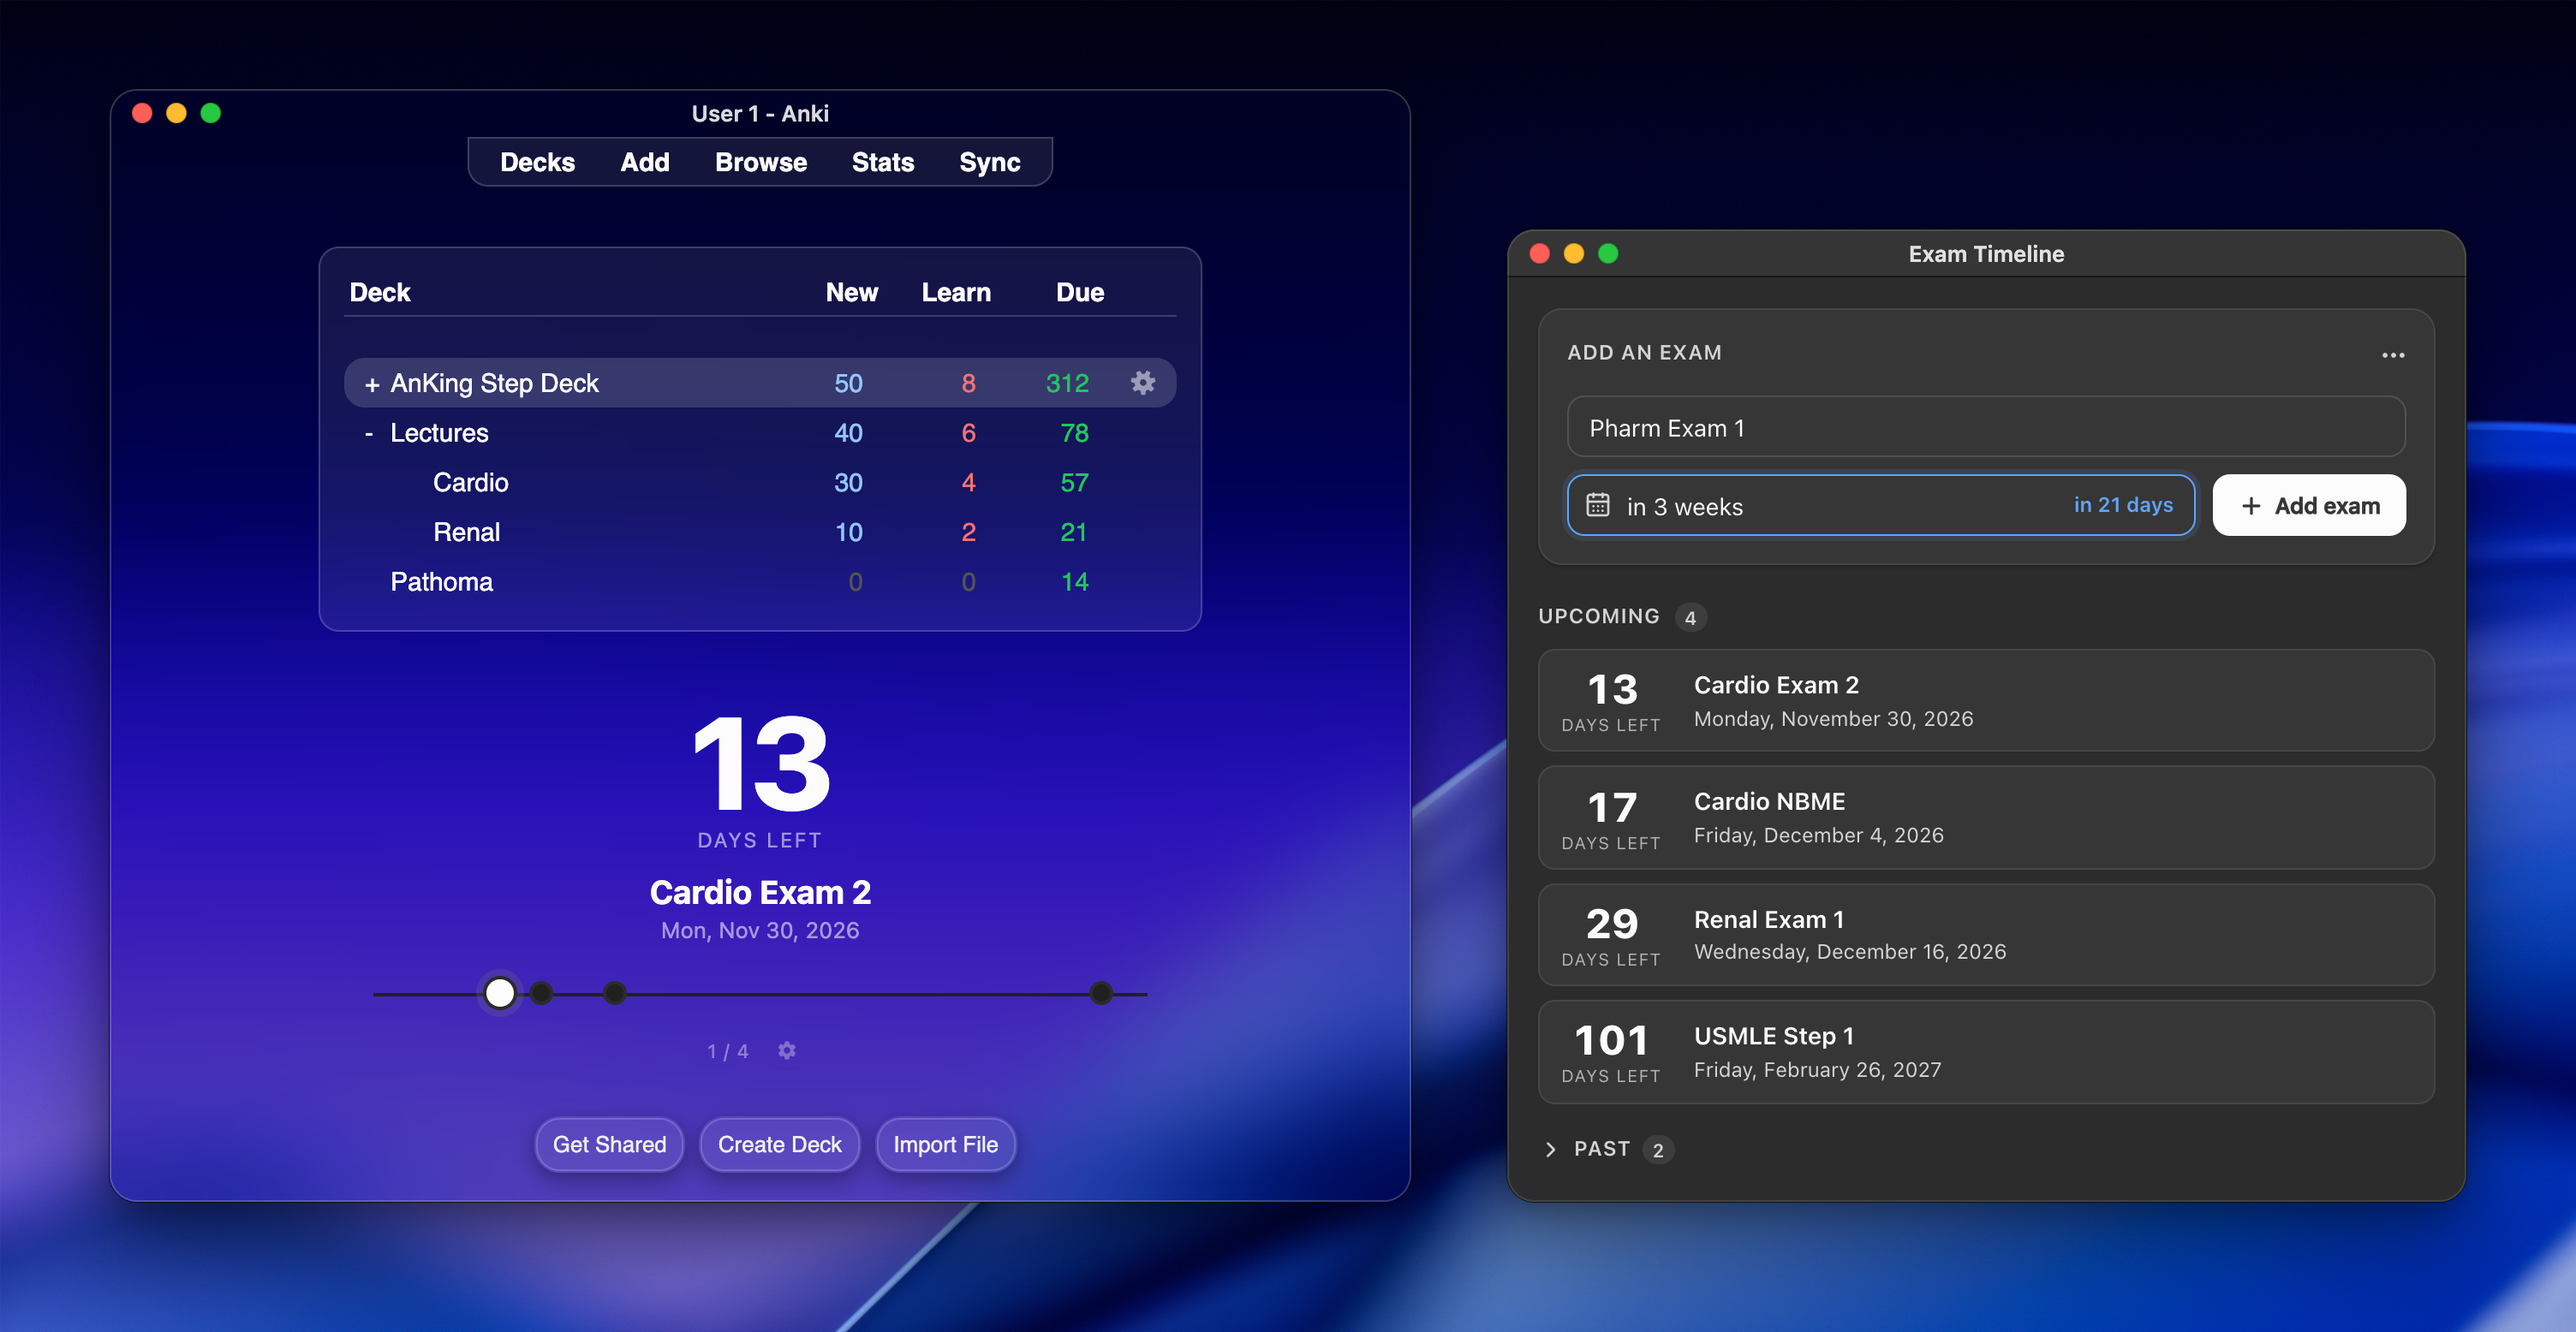
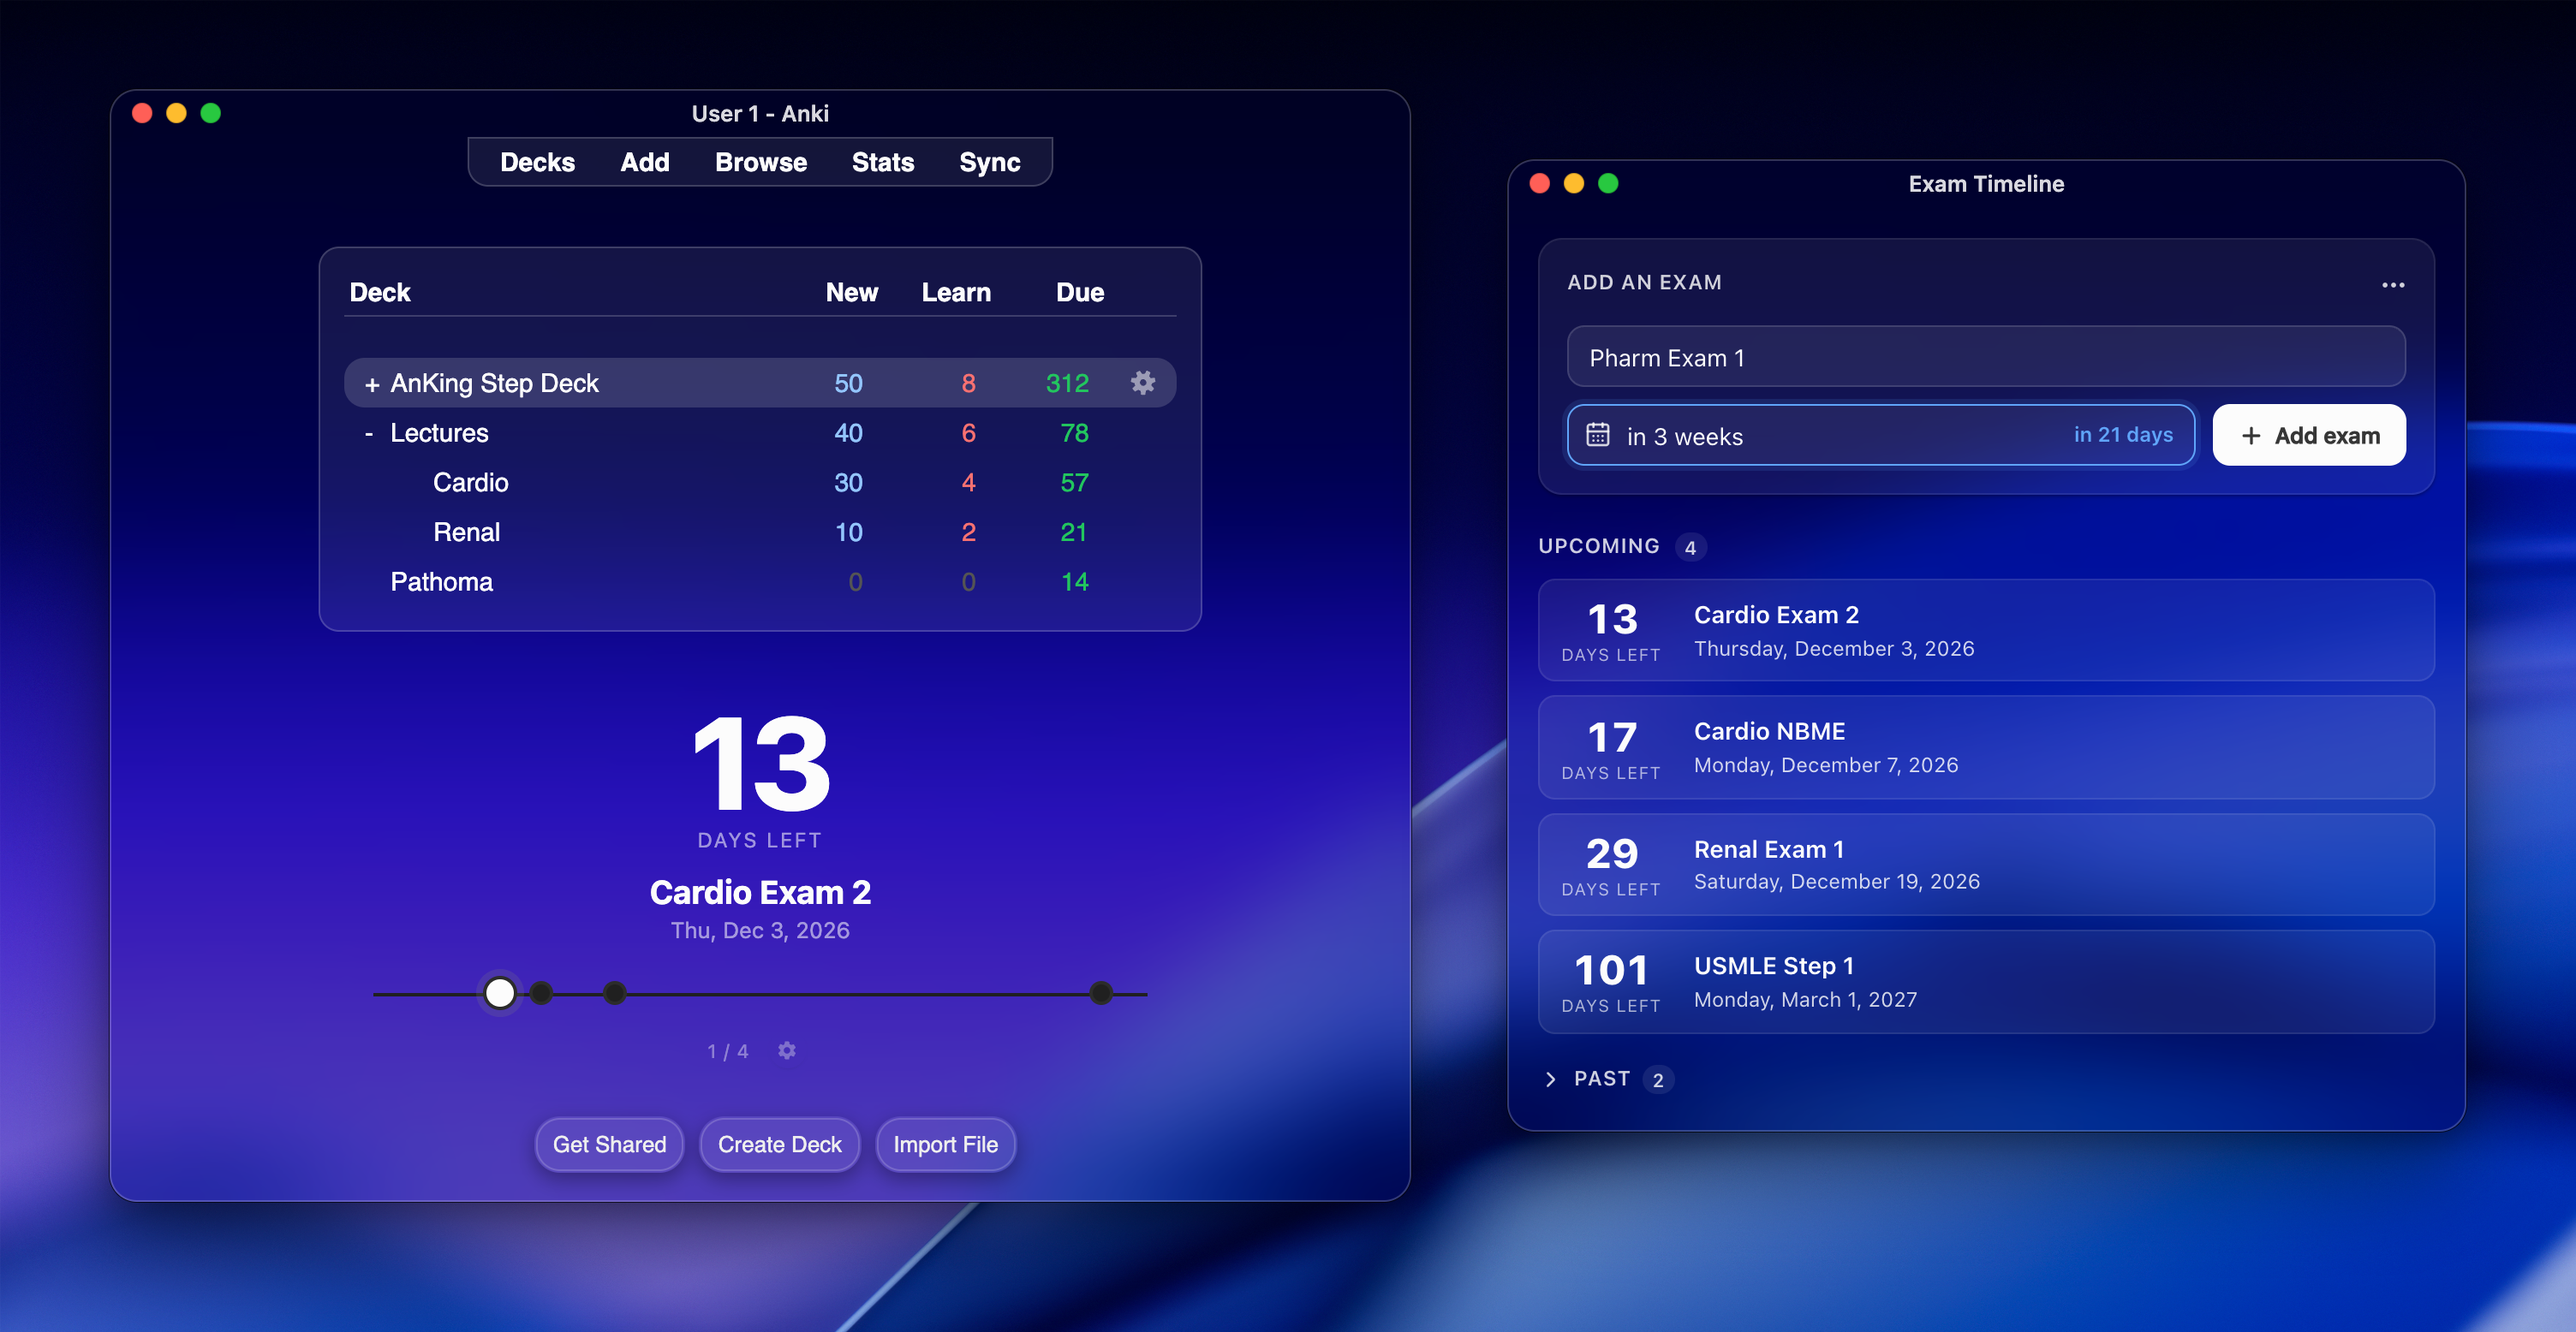
docs: put the screenshot's editor on glass, centred
AnkiGlass has given the editor window its glass since 1.3.0, so the
screenshot shows it that way, beside the main window, with the kit's
load_glass()["window"] as a preload and the glass behind its frame. The
two windows are centred on each other now, not lined up along the
bottom. The credit under it says AnkiGlass gives Anki's windows, Exam
Timeline's included, its glass.

Changed region(s): [[0.5625, 0.1234, 0.9688, 0.9563], [0.25, 0.6787, 0.3438, 0.7095]]

diff --git a/tools/screenshots.py b/tools/screenshots.py
@@ -3,11 +3,12 @@
 
     python3 tools/screenshots.py [--plain] [--capture-wallpaper | --wallpaper PATH]
 
-Writes docs/screenshot.png, one image of two windows side by side: Anki's
-main window with the timeline on the deck screen (in AnkiGlass; --plain for
-stock Anki), and the editor adding an exam with its date typed in words,
-above the exams and their countdowns (the calendar left closed: open, it
-covers the list). They speak for themselves, so they aren't labelled.
+Writes docs/screenshot.png, one image of two windows side by side, centred
+on each other: Anki's main window with the timeline on the deck screen, and
+the editor adding an exam with its date typed in words, above the exams and
+their countdowns (the calendar left closed: open, it covers the list). Both
+are on AnkiGlass's glass, as AnkiGlass gives them (--plain for stock Anki).
+They speak for themselves, so they aren't labelled.
 
 They're made with the add-ons' shared screenshot tools, in the kit's
 checkout next to this one (../anki-addon-kit/screenshots/shots.py, or set
@@ -122,15 +123,16 @@ def main() -> None:
                 {"url": deck, "width": shots.MAIN_SIZE[0], "height": shots.MAIN_SIZE[1],
                  "setup": "window.shotReady", "transparent": bool(glass), "out": "deck.png"},
                 {"url": f"http://127.0.0.1:{port}/?theme=dark", "width": EDITOR_SIZE[0], "height": EDITOR_SIZE[1],
-                 "setup": EDITOR_SETUP, "wait": 900, "out": "editor.png"},
+                 "setup": EDITOR_SETUP, "wait": 900, "out": "editor.png",
+                 **({"preload": glass["window"], "transparent": True} if glass else {})},
             ])
         finally:
             dev.terminate()
-        # AnkiGlass puts glass under the main window only: the editor stays solid.
+        # AnkiGlass gives the editor its glass too, as it does the main window.
         out = s.side_by_side([
             {"image": "deck.png", "size": shots.MAIN_SIZE, "title": "User 1 - Anki",
              "tint": glass and glass["tint"]},
-            {"image": "editor.png", "size": EDITOR_SIZE, "title": "Exam Timeline"},
+            {"image": "editor.png", "size": EDITOR_SIZE, "title": "Exam Timeline", "tint": glass and glass["tint"]},
         ], None, shots.wallpaper_for(args, s), os.path.join(DOCS, "screenshot.png"))
     print("wrote", os.path.relpath(out, ROOT))
 

diff --git a/docs/ankiweb-listing.md b/docs/ankiweb-listing.md
@@ -110,7 +110,7 @@ Puts a countdown to your next exam on Anki's deck screen: a large **days left** 
 
 <p><img src="https://raw.githubusercontent.com/AIbrahimv2/AnkiExamTimeline/main/docs/screenshot.png" alt="Anki's deck screen with Exam Timeline under the deck list, 13 days left until Cardio Exam 2 above a timeline of four upcoming exams, beside the editor adding Pharm Exam 1 with its date typed as &quot;in 3 weeks&quot;" width="100%"></p>
 
-<p><small>Shown with <a href="https://ankiweb.net/shared/info/1866406123">AnkiGlass</a>, which gives Anki's main window macOS Liquid Glass.</small></p>
+<p><small>Shown with <a href="https://ankiweb.net/shared/info/1866406123">AnkiGlass</a>, which gives Anki's windows, Exam Timeline's included, macOS Liquid Glass.</small></p>
 
 **Features**
 

diff --git a/README.md b/README.md
@@ -6,7 +6,7 @@ upcoming exams, nearest first.
 
 <img src="docs/screenshot.png" width="100%" alt="Anki's deck screen with Exam Timeline under the deck list, 13 days left until Cardio Exam 2 above a timeline of four upcoming exams, beside the editor adding Pharm Exam 1 with its date typed as &quot;in 3 weeks&quot;">
 
-<sub>Shown with [AnkiGlass](https://github.com/AIbrahimv2/AnkiGlass), which gives Anki's main window macOS Liquid Glass.</sub>
+<sub>Shown with [AnkiGlass](https://github.com/AIbrahimv2/AnkiGlass), which gives Anki's windows, Exam Timeline's included, macOS Liquid Glass.</sub>
 
 ## Features
 
